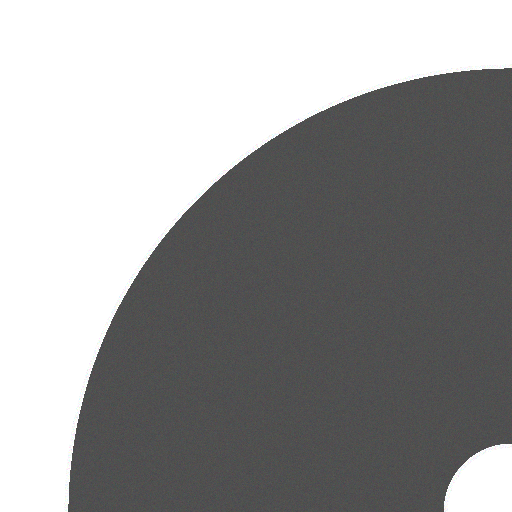
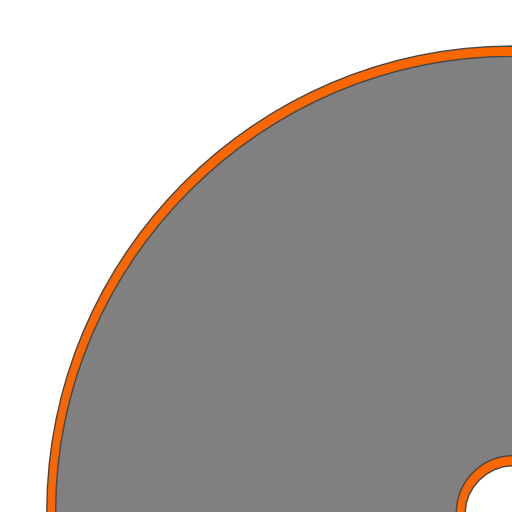
Added new sprites and changed resolution to 1024 x 768

diff --git a/src/Application.cpp b/src/Application.cpp
@@ -109,8 +109,8 @@ int Application::main(const std::vector<CL_String> &args)
 		}
 	}
 
-	Stage::m_width = 800;
-	Stage::m_height = 600;
+	Stage::m_width = 1024;
+	Stage::m_height = 768;
 
 	// Setup clanlib modules:
 	CL_SetupCore 	setup_core;
